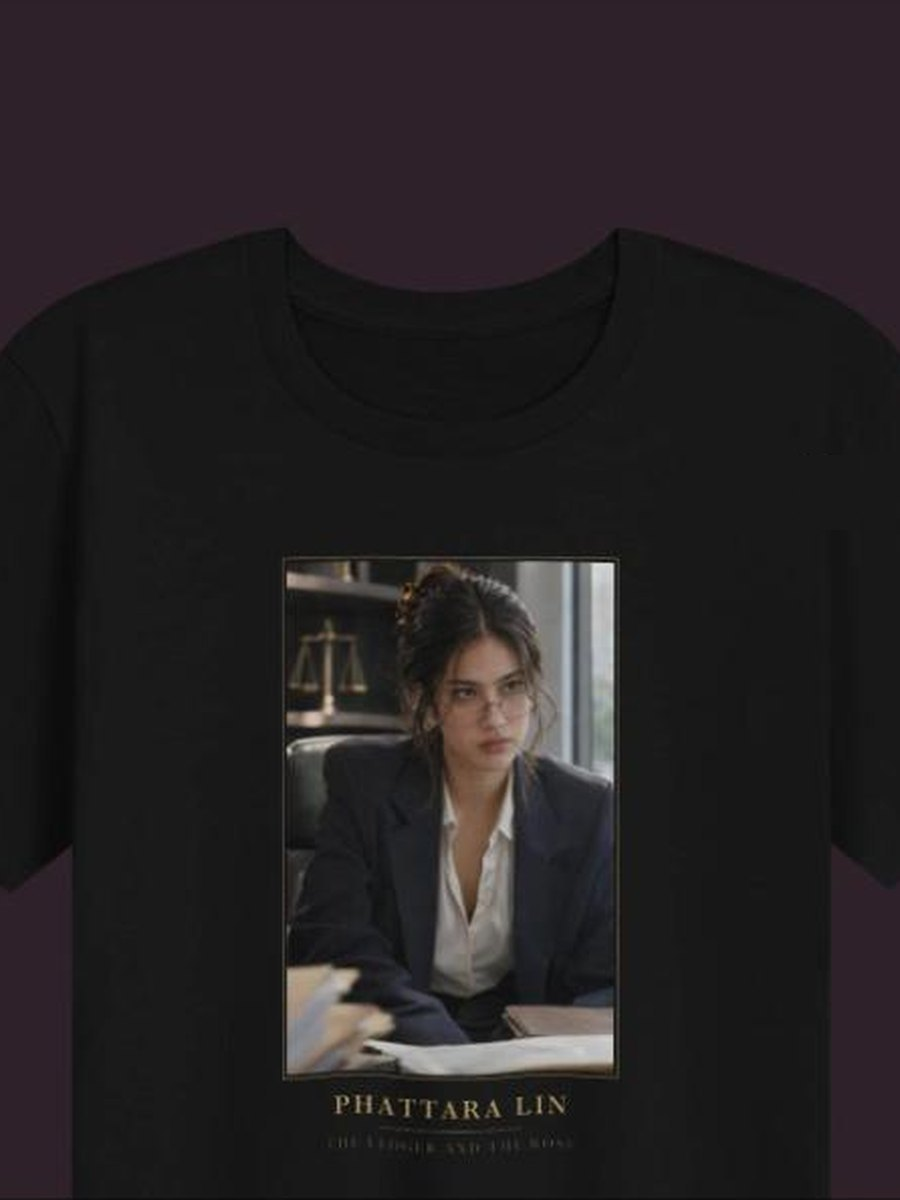
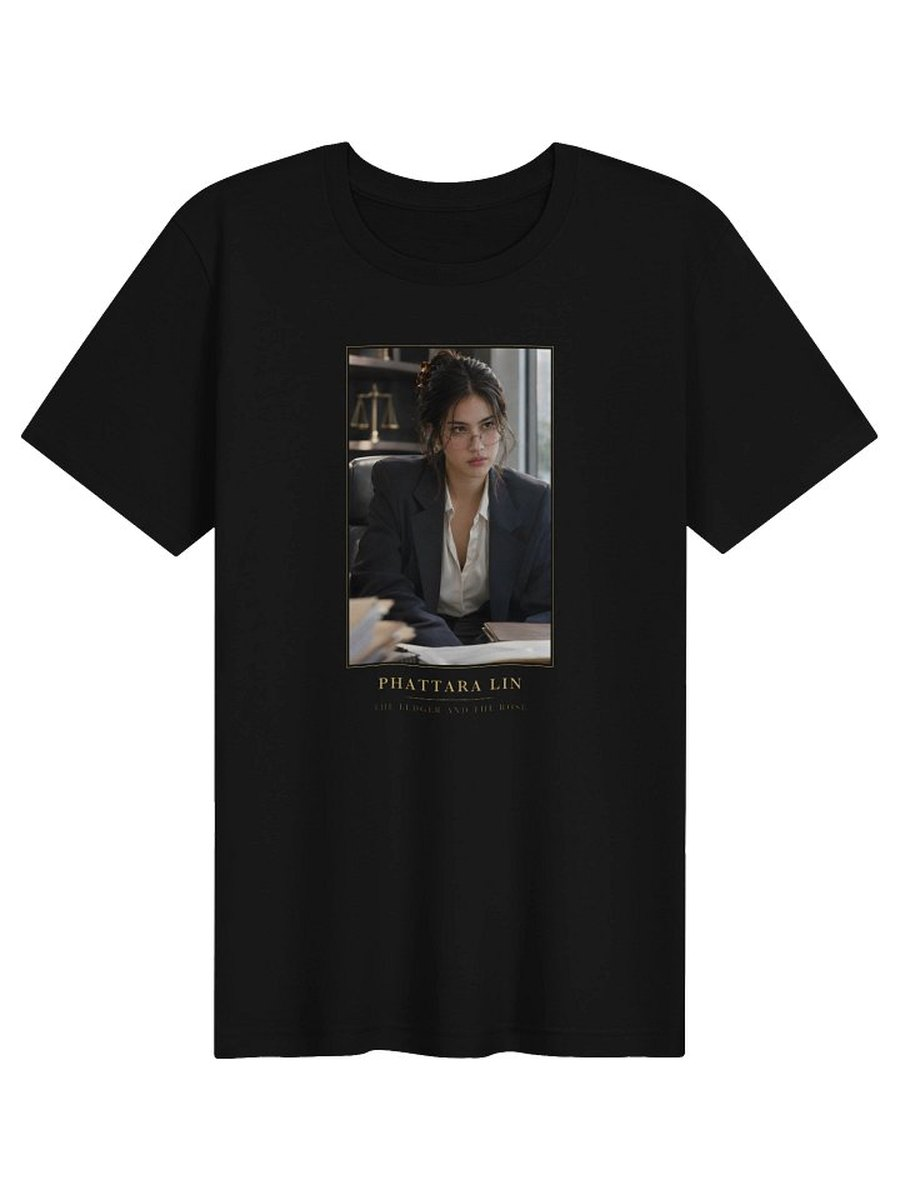
Shop draft: Anin and Lin back-print tees, new chest mock-ups from the large portraits, eight products

diff --git a/shop/index.html b/shop/index.html
@@ -45,7 +45,7 @@
         <p class="lede">Shirts and mugs from our own two novellas. Both are Thai GL, Girls’ Love: romance between women. Made one at a time, when you order.</p>
         <dl class="stats">
           <div><dt class="kicker muted">Books</dt><dd>2</dd></div>
-          <div><dt class="kicker muted">Designs</dt><dd>4</dd></div>
+          <div><dt class="kicker muted">Products</dt><dd>8</dd></div>
           <div><dt class="kicker muted">Kept in stock</dt><dd>0</dd></div>
         </dl>
       </div>
@@ -149,6 +149,38 @@
               <p class="price">$28</p>
             </div>
             <p class="card-copy">For readers who have picked a side, and picked Lin. Framed in gold, her name beneath.</p>
+            <div class="card-foot">
+              <p class="small muted">Black cotton tee · Made to order</p>
+              <button type="button" class="btn btn-gold" data-buy disabled>Opening soon</button>
+            </div>
+          </article>
+
+          <article class="card" data-code="TGW-L-007" data-checkout-url="https://thai-gl-weekly-shop.fourthwall.com/products/anin-rattanakosin-back-print-tee">
+            <div class="card-media card-duo"><img src="img/anin-back-tee-back.jpg" width="900" height="1200" loading="lazy" decoding="async" alt="Back of a black T-shirt: a large gold-framed portrait of Anin Rattanakosin, her name beneath"><img src="img/portrait-back-tee-front.jpg" width="900" height="1200" loading="lazy" decoding="async" alt="Front of the same shirt: the small gold Thai GL Weekly seal over the heart"></div>
+            <div class="card-head">
+              <div>
+                <p class="kicker muted">TGW-L-007</p>
+                <h3 class="card-name">Anin Rattanakosin Back Print Tee</h3>
+              </div>
+              <p class="price">$28</p>
+            </div>
+            <p class="card-copy">For readers who want Anin at full size. The gold seal on the front, her framed portrait across the back.</p>
+            <div class="card-foot">
+              <p class="small muted">Black cotton tee · Made to order</p>
+              <button type="button" class="btn btn-gold" data-buy disabled>Opening soon</button>
+            </div>
+          </article>
+
+          <article class="card" data-code="TGW-L-008" data-checkout-url="https://thai-gl-weekly-shop.fourthwall.com/products/phattara-lin-back-print-tee">
+            <div class="card-media card-duo"><img src="img/lin-back-tee-back.jpg" width="900" height="1200" loading="lazy" decoding="async" alt="Back of a black T-shirt: a large gold-framed portrait of Phattara Lin, her name beneath"><img src="img/portrait-back-tee-front.jpg" width="900" height="1200" loading="lazy" decoding="async" alt="Front of the same shirt: the small gold Thai GL Weekly seal over the heart"></div>
+            <div class="card-head">
+              <div>
+                <p class="kicker muted">TGW-L-008</p>
+                <h3 class="card-name">Phattara Lin Back Print Tee</h3>
+              </div>
+              <p class="price">$28</p>
+            </div>
+            <p class="card-copy">For readers who want Lin at full size. The gold seal on the front, her framed portrait across the back.</p>
             <div class="card-foot">
               <p class="small muted">Black cotton tee · Made to order</p>
               <button type="button" class="btn btn-gold" data-buy disabled>Opening soon</button>
